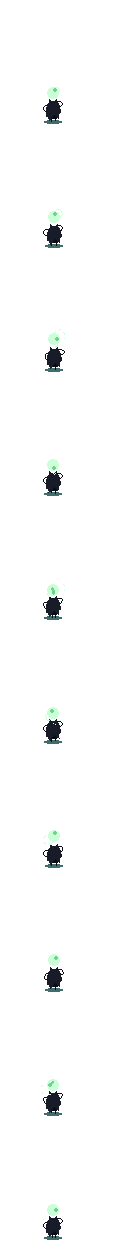
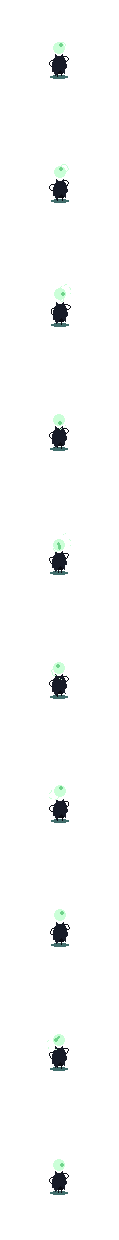
- player animations for running and idle

Changed region(s): [[0.3782, 0.0306, 0.5798, 0.3984], [0.3782, 0.429, 0.5798, 0.7048], [0.3782, 0.7355, 0.5798, 1.0]]

diff --git a/src/Scene_Play.cpp b/src/Scene_Play.cpp
@@ -118,7 +118,8 @@ void Scene_Play::spawnPlayer()
 	p->add<CTransform>(gridToMidPixel(m_playerConfig.X, m_playerConfig.Y, p));
 	p->add<CHealth>(5);
 	p->add<CInput>();
-	p->add<CScore>();
+	p->add<CScore>(0);
+	p->add<CState>("idle");
 
 	p->add<CBasicAttack>(m_currentFrame);
 	p->add<CSpecialAttack>(m_currentFrame);
@@ -202,8 +203,11 @@ void Scene_Play::sMovement()
 	// Normalize if necessary
 	if (pTransform.velocity.x != 0.f || pTransform.velocity.y != 0.f)
 	{
+		player()->get<CState>().state = "running";
 		pTransform.velocity = pTransform.velocity.normalize() * m_playerConfig.SPEED;
 	}
+	else
+		player()->get<CState>().state = "idle";
 
 
 	for (auto& entity : m_entityManager.getEntities())
@@ -478,6 +482,17 @@ void Scene_Play::sDoAction(const Action& action)
 
 void Scene_Play::sAnimation()
 {
+	auto& pState = player()->get<CState>().state;
+	auto& pAnimation = player()->get<CAnimation>().animation;
+	if (pState == "idle" && pAnimation.m_name != "StormheadIdle")
+	{
+		player()->add<CAnimation>(m_game->assets().getAnimation("StormheadIdle"), true);
+	}
+	else if (pState == "running" && pAnimation.m_name != "StormheadRun")
+	{
+		player()->add<CAnimation>(m_game->assets().getAnimation("StormheadRun"), true);
+	}
+
 	for (auto& entity : m_entityManager.getEntities())
 	{
 		if (!entity->has<CAnimation>())

diff --git a/src/Components.hpp b/src/Components.hpp
@@ -149,7 +149,7 @@ public:
 class CState : public Component
 {
 public:
-	std::string state = "jumping";
+	std::string state = "idle";
 
 	CState() = default;
 	CState(const std::string& s) : state(s) {}
